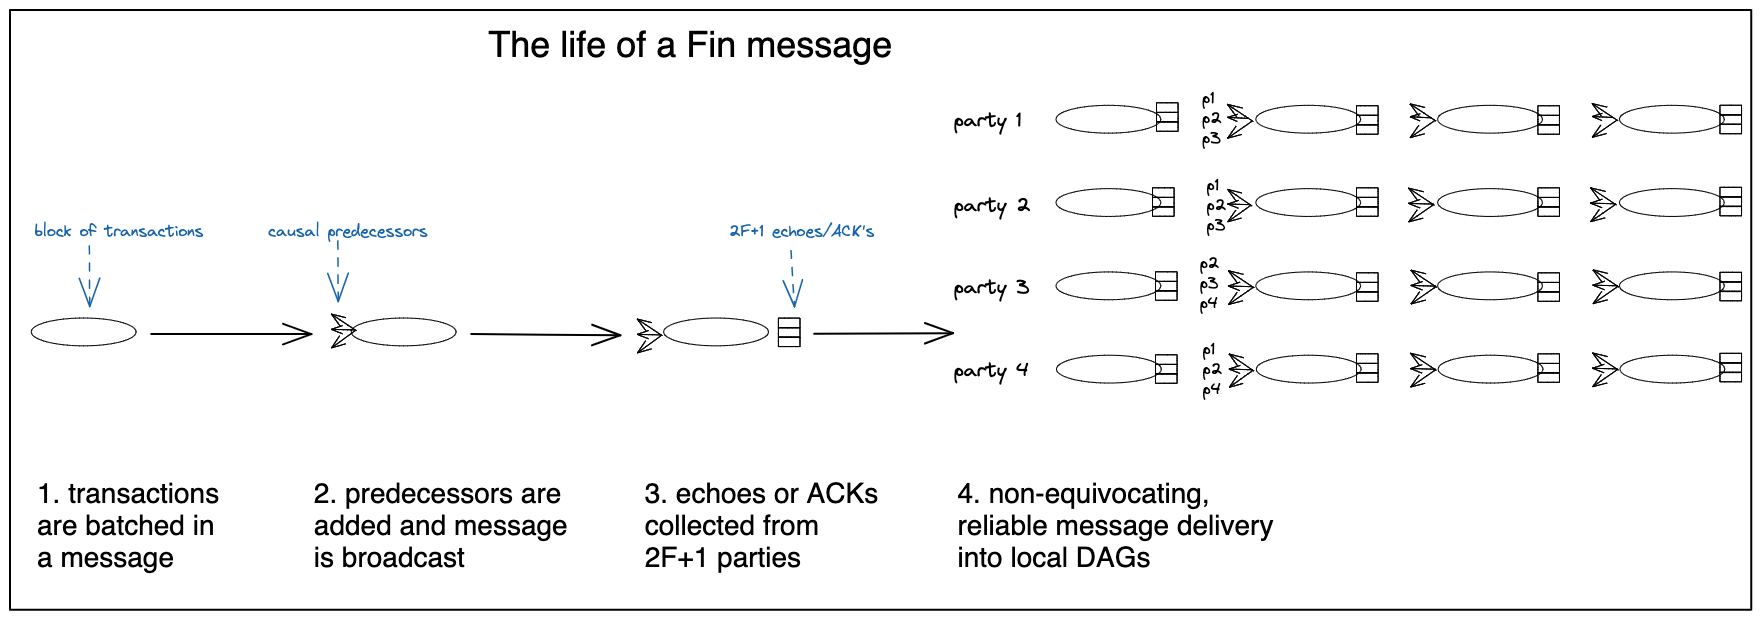
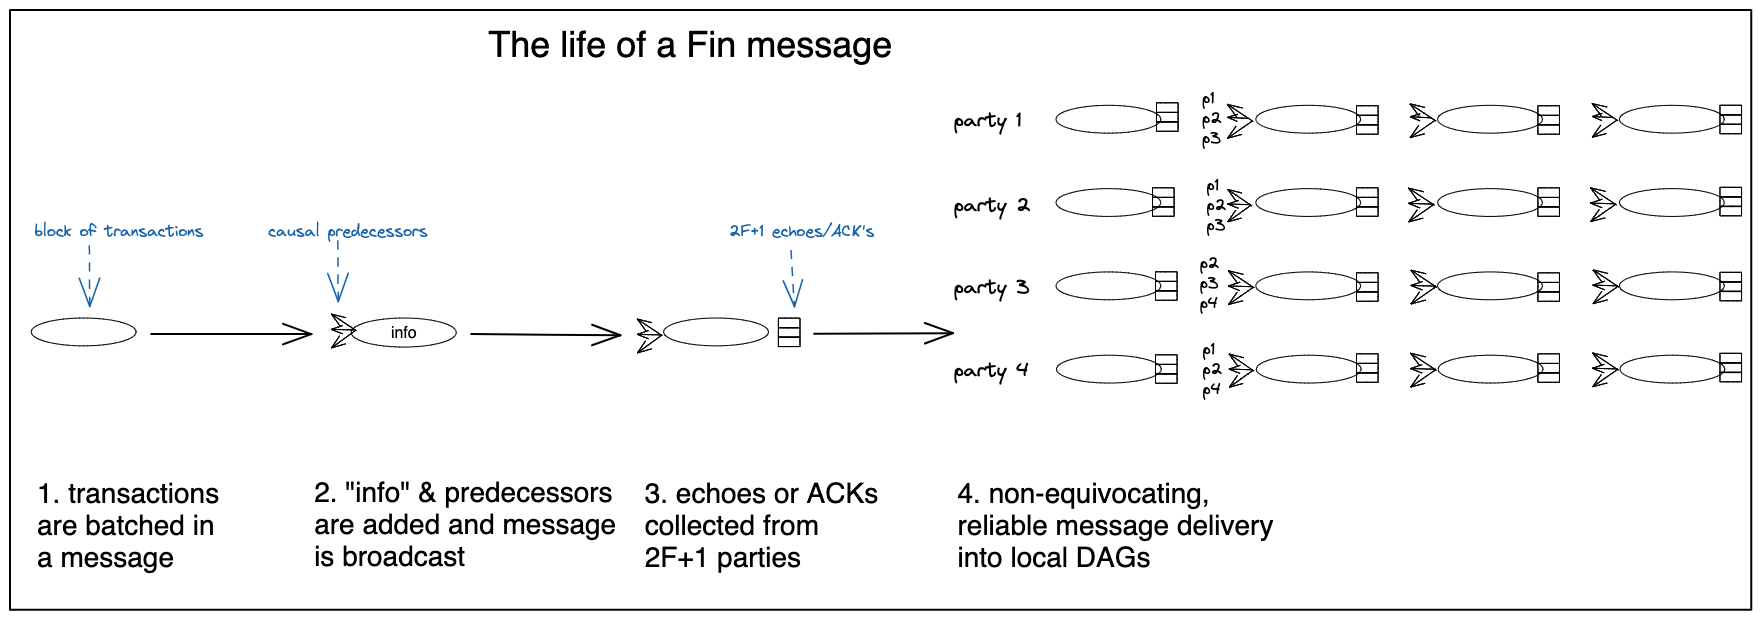
working on DAG draft

Changed region(s): [[0.1562, 0.7674, 0.3436, 0.9208], [0.2186, 0.5218, 0.2499, 0.5832]]

diff --git a/_drafts/DAG-BFT.md b/_drafts/DAG-BFT.md
@@ -142,7 +142,7 @@ contains comparison notes on DAG-based BFT Consensus solutions.
 
   **_Figure 1:_** 
   _The construction of a reliable, causal DAG. 
-  Messages carry causal references to preceding messages. 
+  Messages carry causal references to preceding messages and a local 'info' value. 
   Each messages is guaranteed to be unequivocal and available through 2F+1 acknowledgements._
 
 DAG-T is a transport substrate for disseminating transactions reliably and in causal order.
@@ -151,6 +151,7 @@ The lifetime of transaction dissemination in DAG-T is captured in [**Figure 1**]
 1. Parties send messages that contain blocks of transactions and have direct utility. 
 2. Each message carries references to previously delivered messages. 
 These references become the backbone of a causally ordered directed acyclic graph (DAG) structure.
+Messages also include a meta-information field `info` set in `setInfo()` as explained below.
 3. In order for messages to be "delivered", parties exchange acknowledgements about messages they receive. 
 A message is delivered to a party when it is known that the message and all its predecessors 
 have been received and persisted by a quorum of parties,
@@ -173,9 +174,9 @@ Messages are delivered carrying a sender's payload and additional meta informati
 > - `m.index`, a delivery index from the sender
 > - `m.payload`, contents such as transaction(s)
 > - `m.predecessors`, references to messages sender has seen from other parties, including itself. 
+> - `m.info`, a local meta-information field, explained below in [setInfo()](#setInfo).
 
 DAG-T satisfies the following requirements:
-
 * **Reliability.** 
 If a `deliver(m)` event happens at an honest party, then eventually `deliver(m)` happens at every other honest party.
 
@@ -196,7 +197,9 @@ If a `deliver(m)` event happens at an honest party, then `p` indeed invoked `bro
 If a `deliver(m)` happens at an honest party, 
 then `deliver(d)` events already happened at the party for all messages `d` referenced in `m.predecessors`. 
 Note that by transitively, this ensures its entire causal history has been delivered.
+Disconnect
 
+  <span id="setInfo"></span>
 #### setInfo(): A Non-Blocking API for Injecting Consensus Protocol Input
 
 To prepare for Consensus decisions, DAG-T implementations usually expose APIs allowing the Consensus protocol to inject input into the DAG. 
